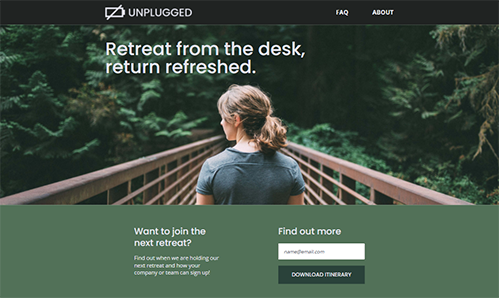
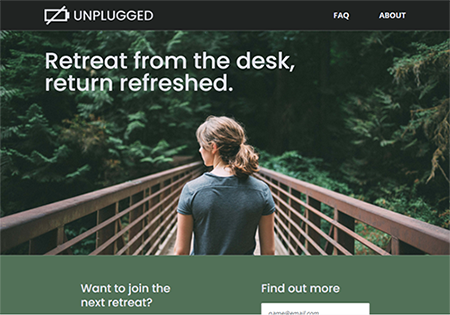
Added tablet styles to header and projects sections

diff --git a/index.html b/index.html
@@ -86,14 +86,13 @@
 
               <figure>
                 <a href="https://dani-coder-a.github.io/github-repo-gallery/" target="_blank">
-                  <img src="img/github-gallery-repo.png" alt="GitHub Repo Gallery Project" />
+                  <img src="img/github-repo-gallery.png" alt="GitHub Repo Gallery Project" />
                 </a>
               </figure>
               <h4>GitHub Repo Gallery</h4>
               <p class="project-description">
-                A gallery of my public GitHub repos that uses GitHub's API to pull data from my account. Visitors can click on the repos 
-                for more repo-specific information and a link to the repo on GitHub. There is also a dynamic search function used to search 
-                for specific repos.
+                A gallery of repos that uses GitHub's API to pull data from my account. Visitors can click on the repos 
+                for more information and search for specific repos.
               </p>
               <p><span>Skills: </span>JavaScript, Manipulating the DOM, API's</p>
               <p><span>Tools: </span>Visual Studio Code, GitHub</p>
@@ -128,7 +127,7 @@
               </figure>
               <h4>Unplugged</h4>
               <p class="project-description">
-                A multi-page responsive website that adapts to mobile, tablet, and desktop screens.
+                A multi-page responsive website for a work retreat that adapts to mobile, tablet, and desktop screens.
               </p>
               <p><span>Skills: </span>HTML5, CSS3, Flexbox, Media Queries, Responsive Typography</p>
               <p><span>Tools: </span>Visual Studio Code, Photoshop, GitHub</p>

diff --git a/css/main.css b/css/main.css
@@ -432,7 +432,6 @@ footer p {
   color: #ee6386;
 }
 
-
 /* ==========================================================================
    Helper classes
    ========================================================================== */
@@ -520,6 +519,81 @@ footer p {
    These examples override the primary ('mobile first') styles.
    Modify as content requires.
    ========================================================================== */
+
+/********** Tablet Styles Here *********/
+
+@media only screen and (min-width: 768px) {
+
+/* General Styles */
+
+.content-wrapper {
+  max-width: 640px;
+}
+
+/* Header Styles */
+
+header {
+  padding: 60px 0px 100px 0px;
+}
+
+nav {
+  margin-bottom: 100px;
+}
+
+nav ul li {
+  font-size: 1em;
+}
+
+nav ul li a {
+  border-radius: 30px;
+  padding: 10px;
+}
+
+header h1 {
+  font-size: 2.5em;
+}
+
+header h2 {
+  font-size: 1.75em;
+  line-height: 1.5em;
+  padding: 80px 0px 60px 0px;
+}
+
+/* Projects Styles */
+
+#projects {
+  padding: 140px 0px 40px 0px
+}
+
+#projects h3 {
+  font-size: 2.5em;
+  padding-bottom: 60px;
+}
+
+#projects .portfolio-wrapper {
+  justify-content: space-around;
+  align-items: flex-start;
+}
+
+.portfolio-wrapper .portfolio-item {
+  width: 45%;
+}
+
+.portfolio-item p {
+  font-size: 1.125em;
+}
+
+.project-link {
+  margin-bottom: 100px;
+  font-size: 1.5em;
+}
+
+/* Skills Styles */
+
+/* About Styles */
+
+/* Footer Styles */
+}
 
 @media only screen and (min-width: 35em) {
   /* Style adjustments for viewports that meet the condition */
